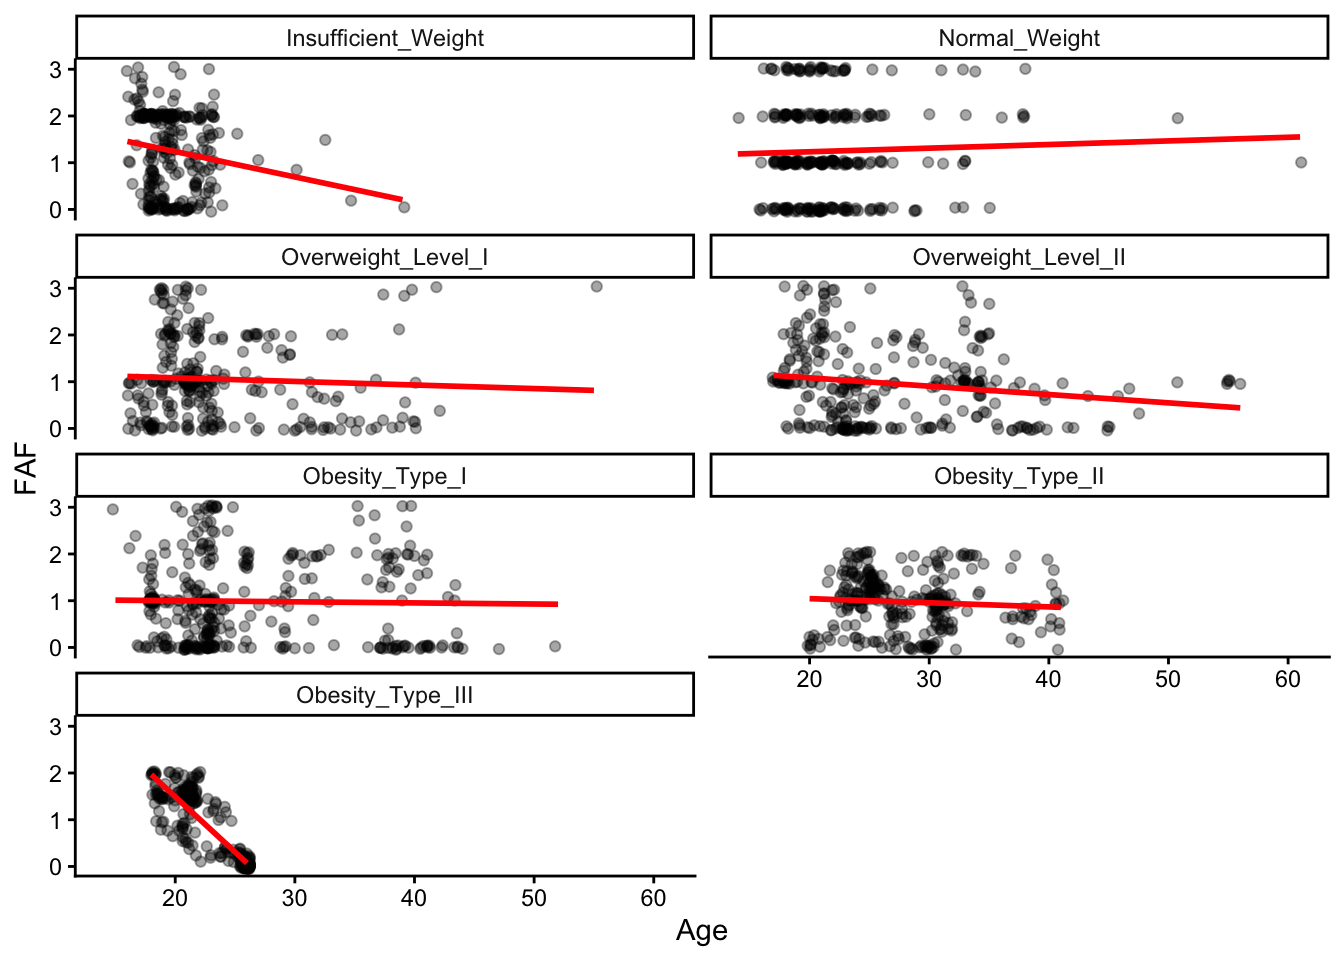
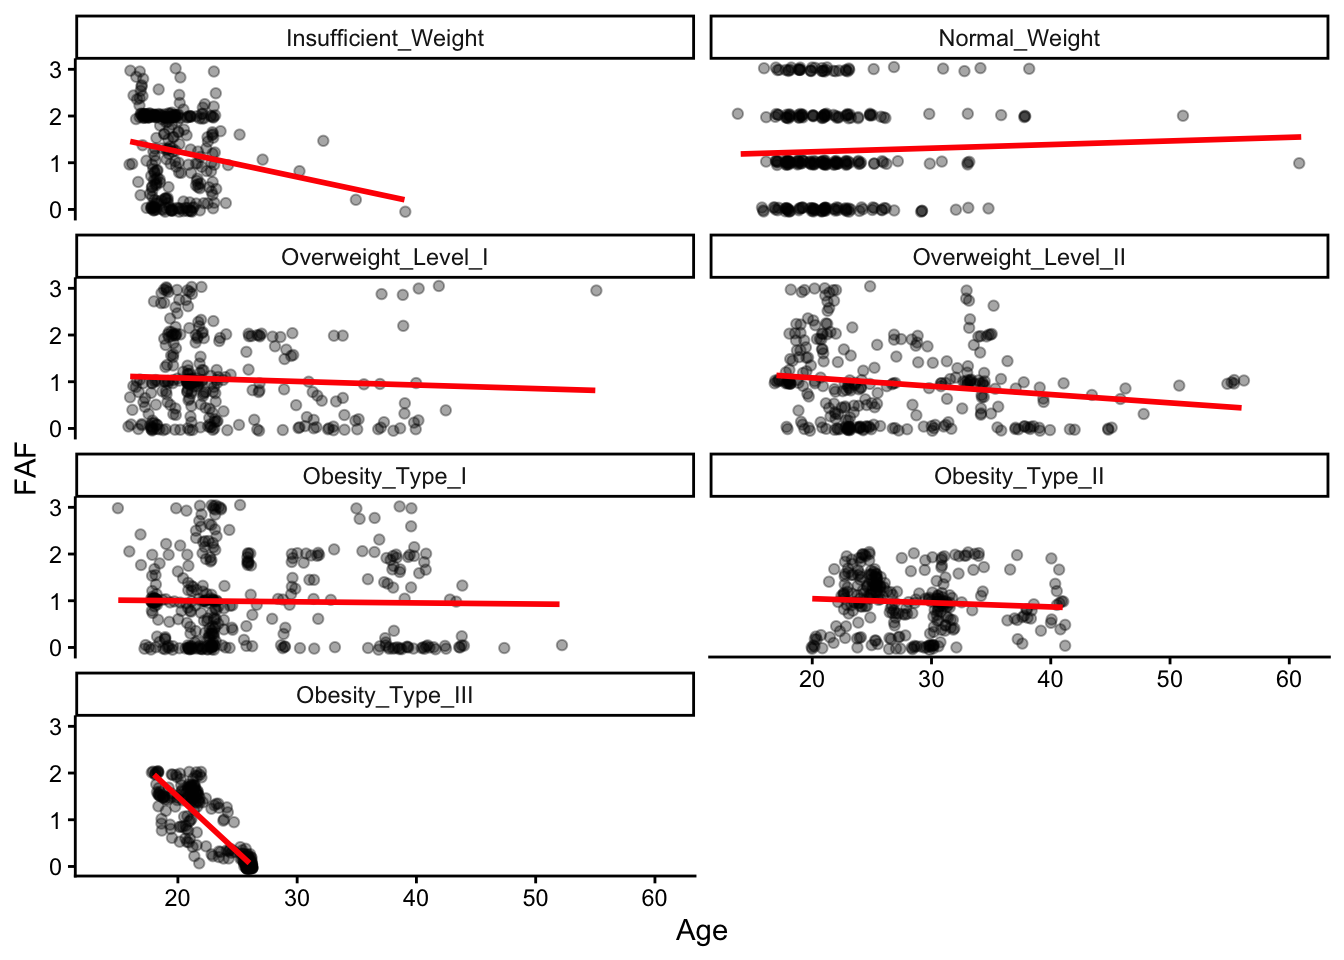
12

diff --git a/docs/projects/final-report.html b/docs/projects/final-report.html
@@ -259,7 +259,8 @@ pre > code.sourceCode > span > a:first-child::before { text-decoration: underlin
 <div class="code-copy-outer-scaffold"><div class="sourceCode cell-code" id="cb4"><pre class="sourceCode r code-with-copy"><code class="sourceCode r"><span id="cb4-1"><a href="#cb4-1" aria-hidden="true" tabindex="-1"></a><span class="fu">setwd</span>(<span class="st">"/Users/kulkins/Desktop/R_s/AnnaUsoltseva.github.io/projects"</span>)</span>
 <span id="cb4-2"><a href="#cb4-2" aria-hidden="true" tabindex="-1"></a><span class="fu">list.files</span>()</span></code></pre></div><button title="Copy to Clipboard" class="code-copy-button"><i class="bi"></i></button></div>
 <div class="cell-output cell-output-stdout">
-<pre><code>[1] "final-report.qmd"       "final-report.rmarkdown" "Obesity prediction.csv"</code></pre>
+<pre><code>[1] "final-report_files"     "final-report.qmd"       "final-report.rmarkdown"
+[4] "Obesity prediction.csv"</code></pre>
 </div>
 <div class="code-copy-outer-scaffold"><div class="sourceCode cell-code" id="cb6"><pre class="sourceCode r code-with-copy"><code class="sourceCode r"><span id="cb6-1"><a href="#cb6-1" aria-hidden="true" tabindex="-1"></a>Obesity <span class="ot">&lt;-</span> <span class="fu">read.csv</span>(<span class="st">"Obesity prediction.csv"</span>)</span>
 <span id="cb6-2"><a href="#cb6-2" aria-hidden="true" tabindex="-1"></a><span class="fu">glimpse</span>(Obesity)</span></code></pre></div><button title="Copy to Clipboard" class="code-copy-button"><i class="bi"></i></button></div>
@@ -464,7 +465,7 @@ X-squared = 621.98, df = 6, p-value &lt; 2.2e-16</code></pre>
 </div>
 <div class="code-copy-outer-scaffold"><div class="sourceCode cell-code" id="cb30"><pre class="sourceCode r code-with-copy"><code class="sourceCode r"><span id="cb30-1"><a href="#cb30-1" aria-hidden="true" tabindex="-1"></a><span class="co"># The Chi-square test showed a significant association between family history and obesity level (χ² = 621.98, p &lt; 0.001). Participants with a family history of obesity were much more common in the higher obesity categories.</span></span>
 <span id="cb30-2"><a href="#cb30-2" aria-hidden="true" tabindex="-1"></a></span>
-<span id="cb30-3"><a href="#cb30-3" aria-hidden="true" tabindex="-1"></a><span class="co"># Family history may reflect not only genetic predisposition but also shared family habits. Eating behaviors, physical activity patterns, and other lifestyle patterns developed during childhood may persist into adulthood and influence the risk of obesity.</span></span></code></pre></div><button title="Copy to Clipboard" class="code-copy-button"><i class="bi"></i></button></div>
+<span id="cb30-3"><a href="#cb30-3" aria-hidden="true" tabindex="-1"></a><span class="co"># Family history may reflect not only genetic predisposition but also shared family habits. Lifestyle patterns developed during childhood may persist into adulthood and influence the risk of obesity.</span></span></code></pre></div><button title="Copy to Clipboard" class="code-copy-button"><i class="bi"></i></button></div>
 </div>
 </section>
 </section>
